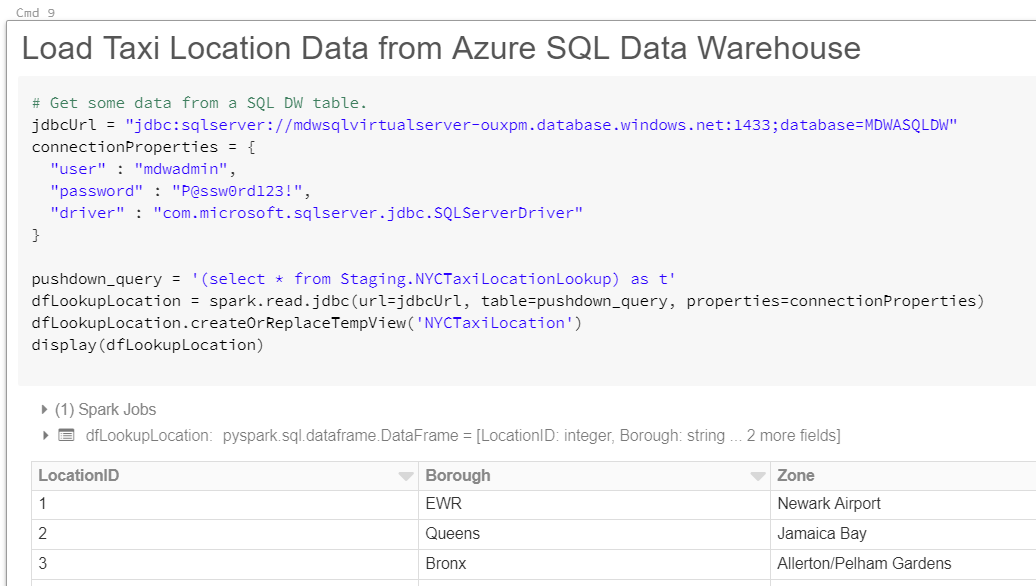
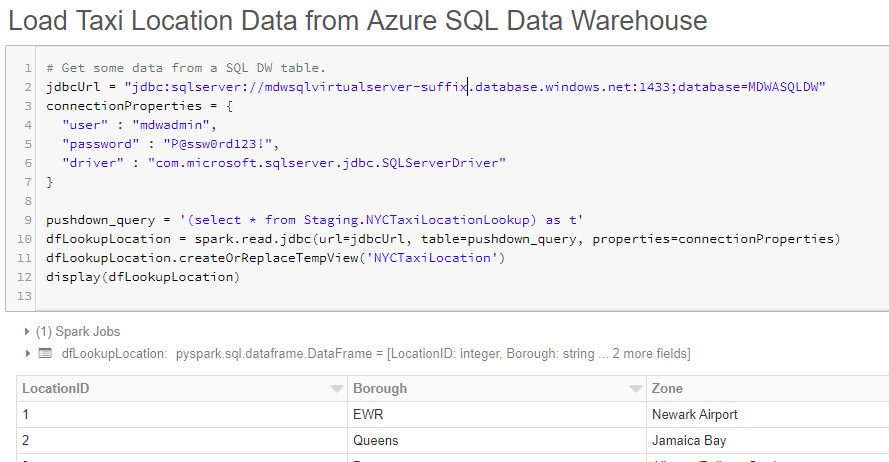
Lab 3 Updates
Corrected cell numbers

diff --git a/Lab/Lab3/Lab3.md b/Lab/Lab3/Lab3.md
@@ -115,7 +115,7 @@ nycTaxiDataSchema = StructType([
 dfNYCTaxiData = spark.read.format('csv').options(header='true', schema=nycTaxiDataSchema).load('wasbs://nyctaxidata@[your MDWDataLake storage account name].blob.core.windows.net/')
 ```
 
-13.	Remember to replace *[your MDWDataLake storage account name]* with **mdwdatalake*suffix*** and to replace *[your MDWDataLake storage account key]* with the storage account key. Your **Cmd 2** cell should look like this:
+13.	Remember to replace *[your MDWDataLake storage account name]* with **mdwdatalake*suffix***. Your **Cmd 2** cell should look like this:
 
     ![](./Media/Lab3-Image09.png)
 
@@ -185,9 +185,9 @@ where cast(tpep_pickup_datetime as date) = '2018-04-07'
 
     ![](./Media/Lab3-Image12.png)
 
-31.	Set the title of the **Cmd 9** cell to “Use SQL to aggregate NYC Taxi Data records and visualize data”
+31.	Set the title of the **Cmd 8** cell to “Use SQL to aggregate NYC Taxi Data records and visualize data”
 
-32.	In the **Cmd 9** cell, write a SQL query to aggregate records and return total number of rides by payment type. Use the command below:
+32.	In the **Cmd 8** cell, write a SQL query to aggregate records and return total number of rides by payment type. Use the command below:
 
 ```sql
 %sql
@@ -214,7 +214,7 @@ order by TotalRideCount desc
     ![](./Media/Lab3-Image13.png)
     ![](./Media/Lab3-Image14.png)
 
-35. Set the title of the **Cmd 10** cell to “Load Taxi Location Data from Azure SQL Data Warehouse”.
+35. Set the title of the **Cmd 9** cell to “Load Taxi Location Data from Azure SQL Data Warehouse”.
 
 36. Using Python, open a JDBC connection to your Azure SQL Data Warehouse and load Taxi location lookup data from the Staging.NYCTaxiLocationLookup table into a new data frame called dfLocationLookup. 
 
@@ -243,9 +243,9 @@ display(dfLookupLocation)
 
     ![](./Media/Lab3-Image17.png)
 
-38. Set the title of the **Cmd 11** cell to “Combine Data Lake and Data Warehouse data frames using SQL”.
+38. Set the title of the **Cmd 10** cell to “Combine Data Lake and Data Warehouse data frames using SQL”.
 
-39. In the **Cmd 11** cell, write a SQL query to join the two dataframes using their view names. Write a SELECT statement to return the "Borough" column from NYCTaxiLocation view and the columns "tpep_pickup_datetime", "passenger_count" and "total_amount" from the NYCTaxiDataTable view. Use a WHERE clause to filter taxi rides that happened on the Apr, 7th of 2018 with passenger_count > 5 and total_amount > 50.0. Use the SQL command below:
+39. In the **Cmd 10** cell, write a SQL query to join the two dataframes using their view names. Write a SELECT statement to return the "Borough" column from NYCTaxiLocation view and the columns "tpep_pickup_datetime", "passenger_count" and "total_amount" from the NYCTaxiDataTable view. Use a WHERE clause to filter taxi rides that happened on the Apr, 7th of 2018 with passenger_count > 5 and total_amount > 50.0. Use the SQL command below:
 
 ```sql
 %sql
